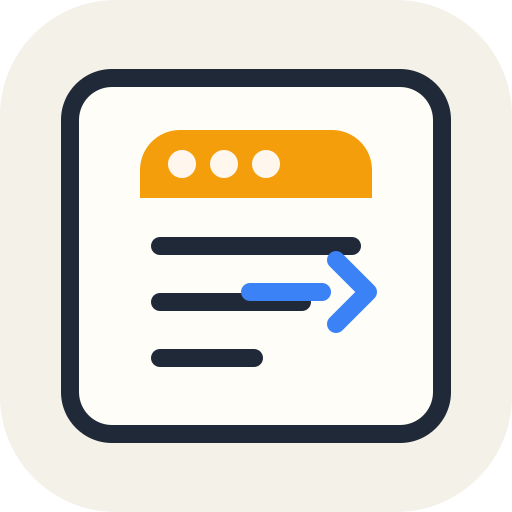
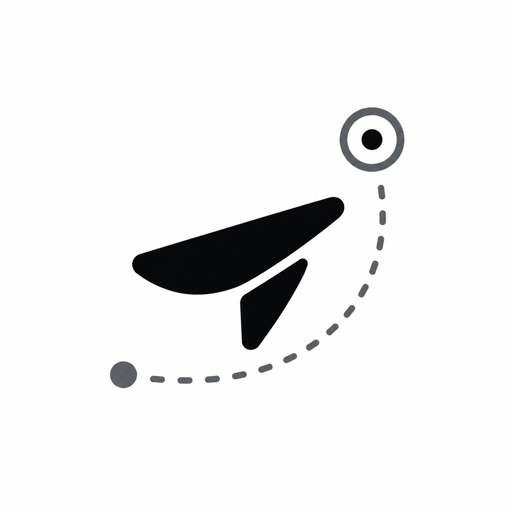
Add GoalPilot brand assets

Changed region(s): [[0.0938, 0.125, 0.9062, 0.875], [0.5938, 0.6562, 0.625, 0.6875]]

diff --git a/src/renderer/styles.css b/src/renderer/styles.css
@@ -129,25 +129,17 @@ a { color: inherit; text-decoration: none; }
   gap: 10px;
   -webkit-app-region: no-drag;
 }
-.brand-glyph {
-  width: 22px; height: 22px;
+.brand-logo {
+  width: 26px;
+  height: 26px;
+  object-fit: contain;
   border-radius: 6px;
-  background: var(--ink);
-  position: relative;
   flex-shrink: 0;
-}
-.brand-glyph::after {
-  content: '';
-  position: absolute;
-  inset: 5px;
-  border-radius: 2px;
-  background: var(--bg);
-  clip-path: polygon(0 0, 100% 0, 100% 30%, 30% 30%, 30% 100%, 0 100%);
 }
 .brand-name {
   font-weight: 600;
   font-size: 13.5px;
-  letter-spacing: -0.005em;
+  letter-spacing: 0;
 }
 
 .nav {

diff --git a/src/renderer/App.tsx b/src/renderer/App.tsx
@@ -10,6 +10,9 @@ import { ModelPage } from './pages/ModelPage';
 import { McpPage } from './pages/McpPage';
 import { SettingsPage } from './pages/SettingsPage';
 import { RightPanel } from './components/RightPanel';
+import goalPilotLogo from './assets/brand/goalpilot-logo-ui.png';
+
+const PRODUCT_BRAND_NAME = 'GoalPilot';
 
 const ROUTE_LABELS: Record<AppRoute, string> = {
   brief: 'Brief',
@@ -249,8 +252,8 @@ function Sidebar({ route, onNavigate }: SidebarProps) {
         <div className="tl-dot" />
       </div>
       <div className="sidebar-brand">
-        <div className="brand-glyph" />
-        <span className="brand-name">Taskplane</span>
+        <img className="brand-logo" src={goalPilotLogo} alt="" aria-hidden="true" />
+        <span className="brand-name">{PRODUCT_BRAND_NAME}</span>
       </div>
 
       <nav className="nav">
@@ -270,9 +273,9 @@ function Sidebar({ route, onNavigate }: SidebarProps) {
       </nav>
 
       <div className="sidebar-footer">
-        <div className="avatar">T</div>
+        <div className="avatar">G</div>
         <div className="footer-meta">
-          <strong>Taskplane</strong>
+          <strong>{PRODUCT_BRAND_NAME}</strong>
           任务级 Agent · 通用任务流
         </div>
       </div>

diff --git a/build-resources/README.md b/build-resources/README.md
@@ -2,9 +2,15 @@
 
 This directory holds packaging-time resources for Electron builds.
 
-Planned contents:
+Current contents:
 
-- app icons (`.icns`, `.ico`, `.png`)
-- installer backgrounds or assets if needed later
+- `icon.png`: macOS packaging icon generated from the GoalPilot brand mark.
 
-The current packaging setup intentionally starts without custom signed production assets so the local macOS build pipeline can be validated first.
+Source brand assets live under `src/renderer/assets/brand/`:
+
+- `goalpilot-logo.png`: app mark used in the UI and packaging icon.
+- `goalpilot-logo-ui.png`: small app mark generated for renderer UI imports.
+- `goalpilot-wordmark.png`: full GoalPilot wordmark for future branded surfaces.
+
+Keep package identity fields such as `appId` and release-data paths separate
+from visual branding until a migration plan is ready.